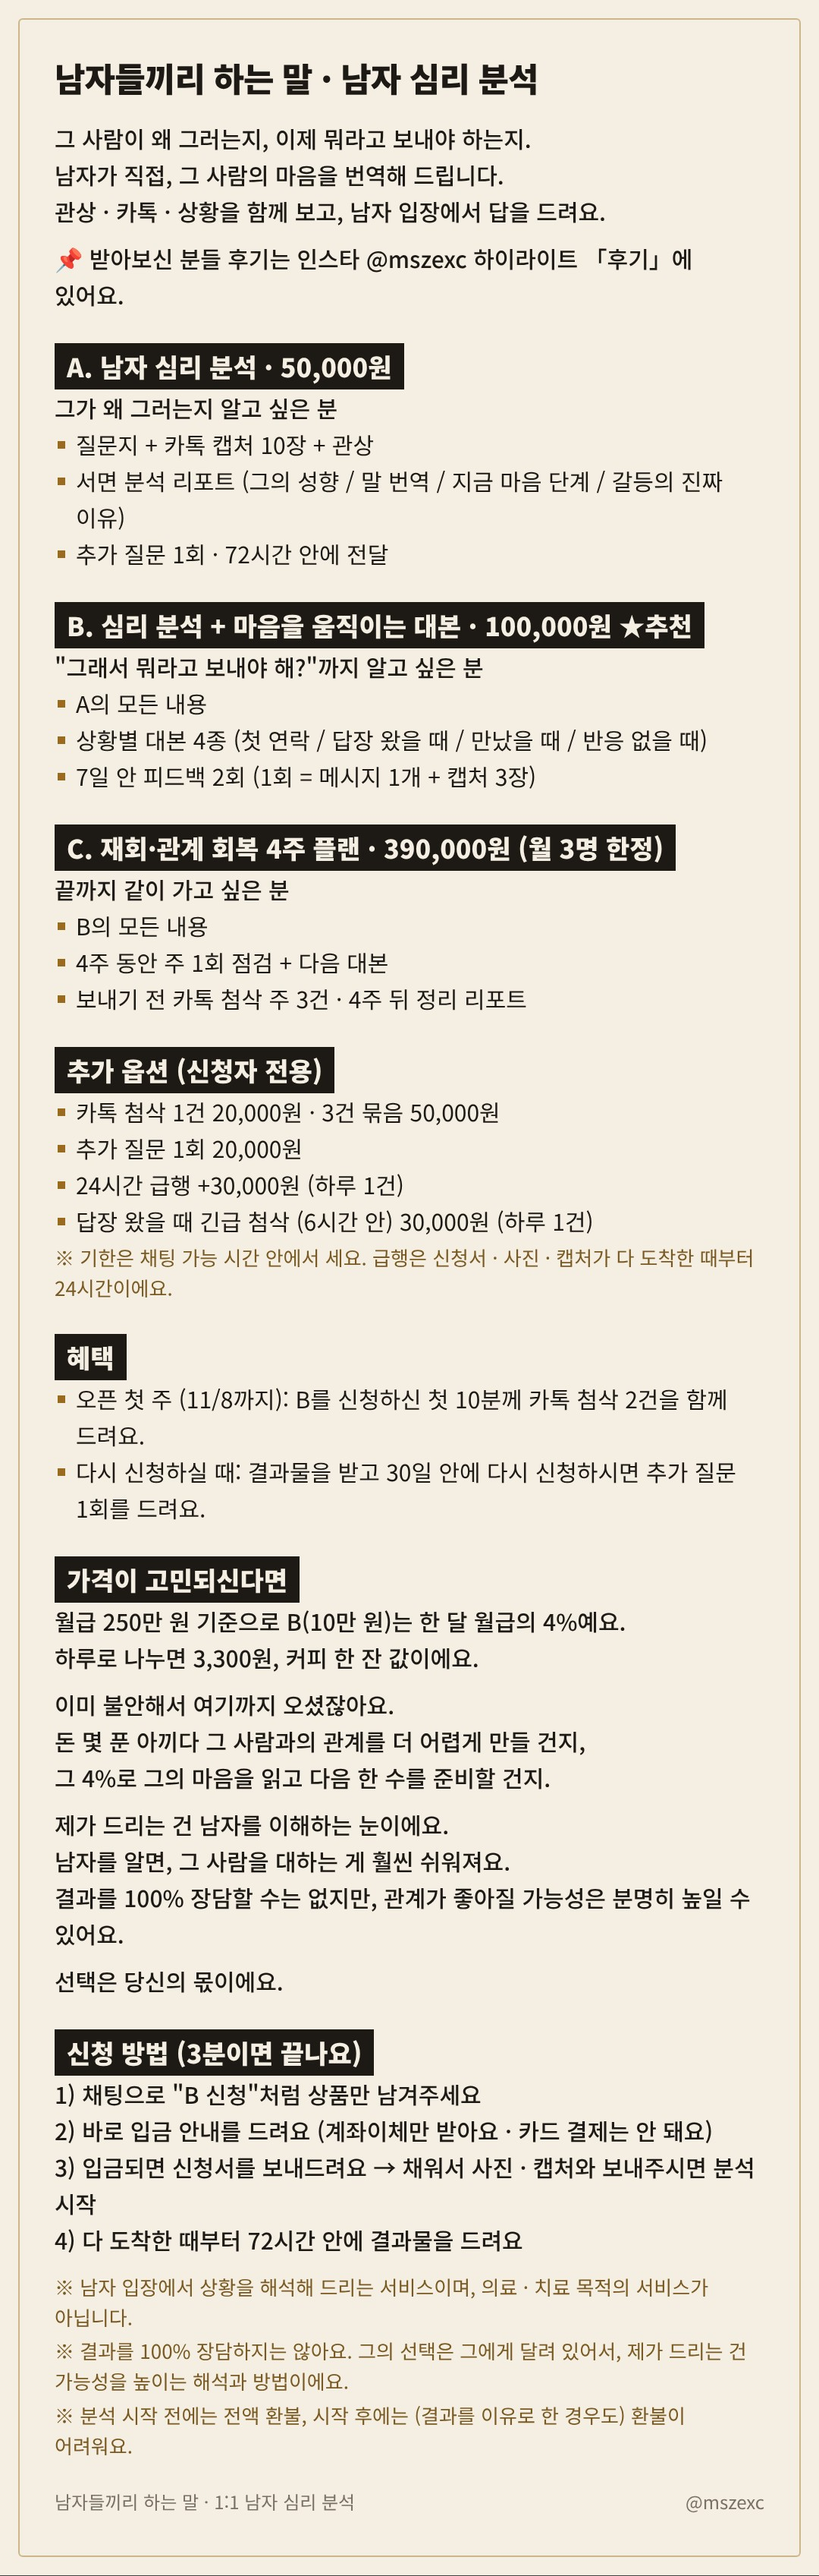
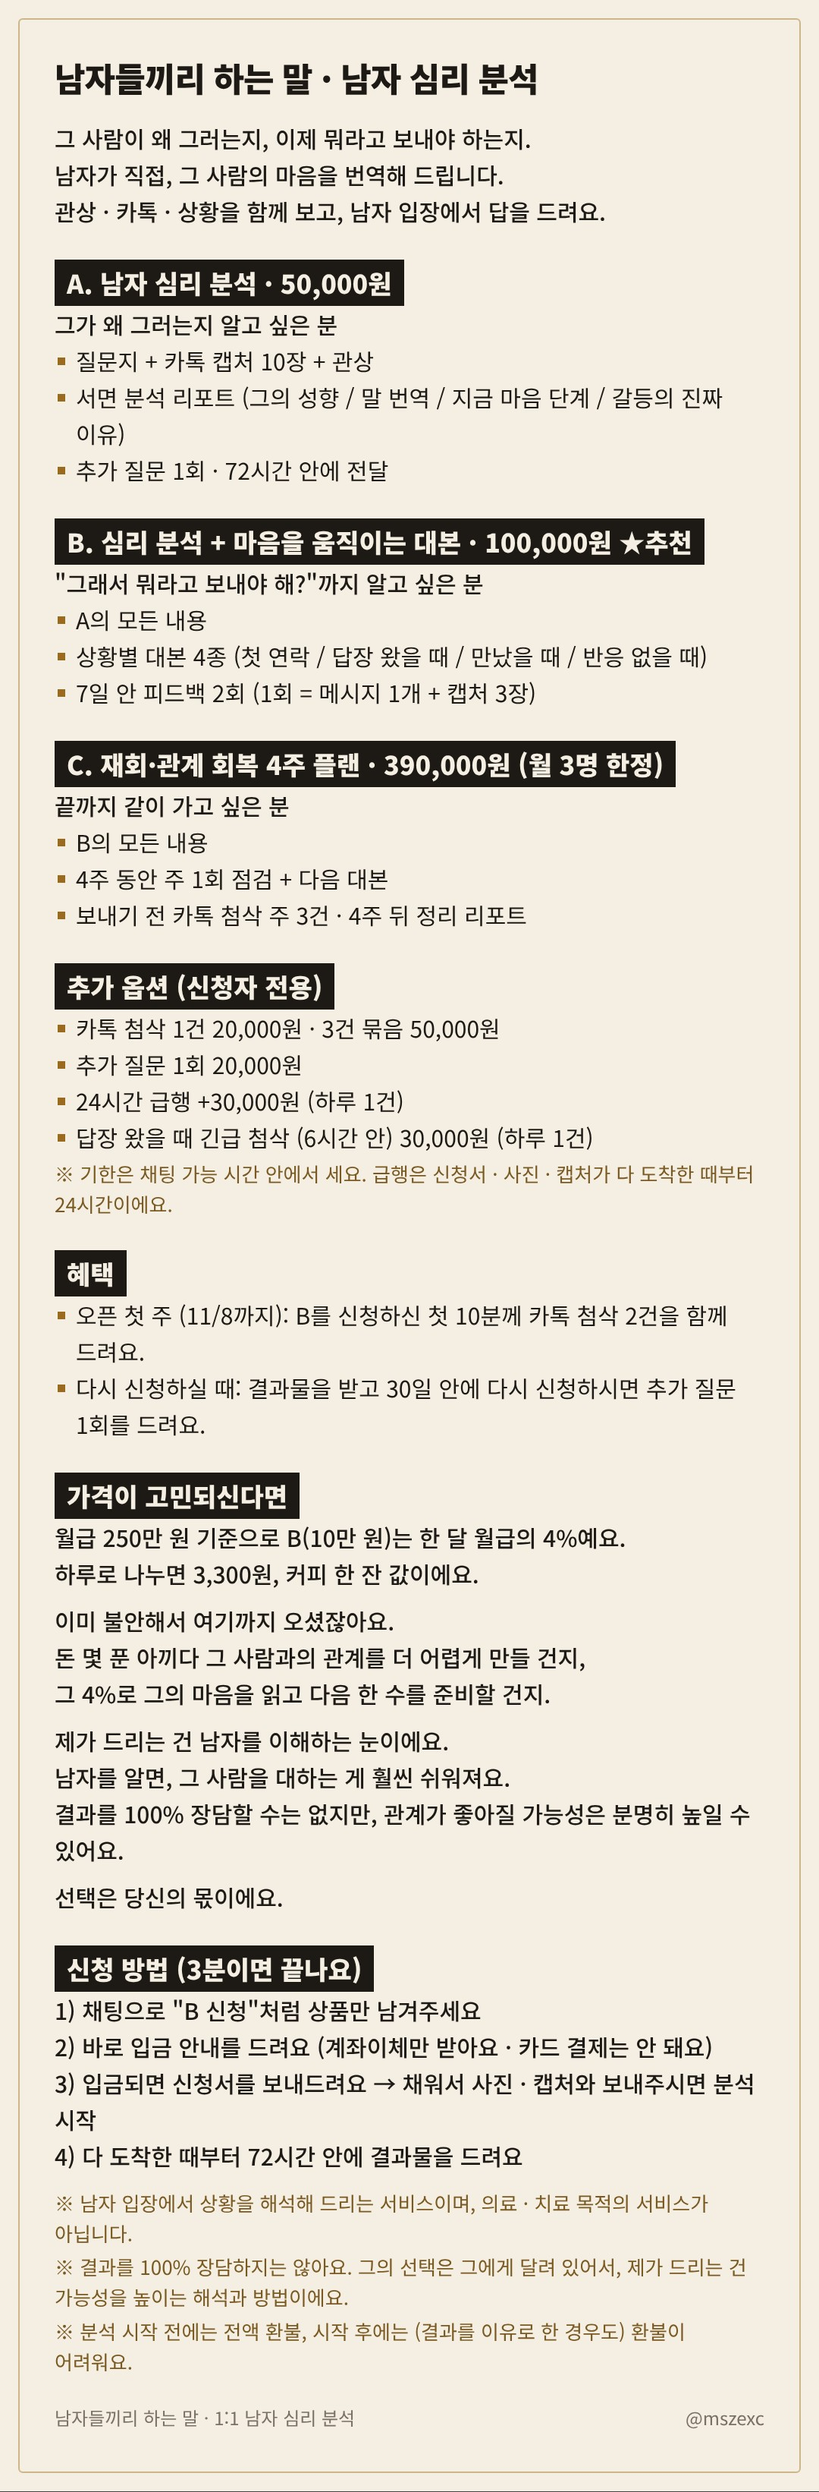
Consult guide: drop reviews highlight line
Claude-Session: https://claude.ai/code/session_01J9i5yL8MFhQ5W67Sx3nDW6

diff --git a/consult/kakao_menu/docs.html b/consult/kakao_menu/docs.html
@@ -26,7 +26,7 @@
 <section class="k" id="card_guide"><div class="top">남자가 직접, 그 사람 마음을 번역해 드려요</div><div class="ti">1:1 남자 심리 분석 안내</div><ul><li>A 5만 · B 10만 ★추천 · C 39만 (월 3명)</li><li>관상 · 카톡 · 상황을 남자 입장에서</li><li>채팅으로 &quot;A · B · C 신청&quot; → 계좌이체</li></ul><div class="ft"><span>남자들끼리 하는 말 · 1:1 남자 심리 분석</span><span>@mszexc</span></div></section>
 <section class="k" id="card_form"><div class="top">입금 확인 후 보내드려요</div><div class="ti">신청서 · 이것만 준비하세요</div><ul><li>얼굴 사진 (나 1장 · 그 1~2장 · 부담되면 생략 OK)</li><li>둘의 이야기 + 그의 카톡 · 만날 때 모습</li><li>카톡 캡처 10장 · 꼭 답받고 싶은 질문</li></ul><div class="ft"><span>남자들끼리 하는 말 · 1:1 남자 심리 분석</span><span>@mszexc</span></div></section>
 <section class="k" id="card_report"><div class="top">72시간 안에 서면으로</div><div class="ti">결과물은 이렇게 드려요</div><ul><li>A · 성향 / 말 번역 / 마음 단계 / 갈등 이유</li><li>B · A + 상황별 대본 4종 + 피드백 2회</li><li>C · B + 4주 점검 · 첨삭 주 3건 · 정리 리포트</li></ul><div class="ft"><span>남자들끼리 하는 말 · 1:1 남자 심리 분석</span><span>@mszexc</span></div></section>
-<section class="doc" id="doc_guide"><div class="ttl">남자들끼리 하는 말 · 남자 심리 분석</div><div class="sp"></div><div class="ln">그 사람이 왜 그러는지, 이제 뭐라고 보내야 하는지.</div><div class="ln">남자가 직접, 그 사람의 마음을 번역해 드립니다.</div><div class="ln">관상 · 카톡 · 상황을 함께 보고, 남자 입장에서 답을 드려요.</div><div class="sp"></div><div class="ln">📌 받아보신 분들 후기는 인스타 @mszexc 하이라이트 「후기」에 있어요.</div><div class="sp"></div><div class="sec">A. 남자 심리 분석 · 50,000원</div><div class="ln">그가 왜 그러는지 알고 싶은 분</div><div class="li">질문지 + 카톡 캡처 10장 + 관상</div><div class="li">서면 분석 리포트 (그의 성향 / 말 번역 / 지금 마음 단계 / 갈등의 진짜 이유)</div><div class="li">추가 질문 1회 · 72시간 안에 전달</div><div class="sp"></div><div class="sec">B. 심리 분석 + 마음을 움직이는 대본 · 100,000원  ★추천</div><div class="ln">&quot;그래서 뭐라고 보내야 해?&quot;까지 알고 싶은 분</div><div class="li">A의 모든 내용</div><div class="li">상황별 대본 4종 (첫 연락 / 답장 왔을 때 / 만났을 때 / 반응 없을 때)</div><div class="li">7일 안 피드백 2회 (1회 = 메시지 1개 + 캡처 3장)</div><div class="sp"></div><div class="sec">C. 재회·관계 회복 4주 플랜 · 390,000원  (월 3명 한정)</div><div class="ln">끝까지 같이 가고 싶은 분</div><div class="li">B의 모든 내용</div><div class="li">4주 동안 주 1회 점검 + 다음 대본</div><div class="li">보내기 전 카톡 첨삭 주 3건 · 4주 뒤 정리 리포트</div><div class="sp"></div><div class="sec">추가 옵션 (신청자 전용)</div><div class="li">카톡 첨삭 1건 20,000원 · 3건 묶음 50,000원</div><div class="li">추가 질문 1회 20,000원</div><div class="li">24시간 급행 +30,000원 (하루 1건)</div><div class="li">답장 왔을 때 긴급 첨삭 (6시간 안) 30,000원 (하루 1건)</div><div class="note">※ 기한은 채팅 가능 시간 안에서 세요. 급행은 신청서 · 사진 · 캡처가 다 도착한 때부터 24시간이에요.</div><div class="sp"></div><div class="sec">혜택</div><div class="li">오픈 첫 주 (11/8까지): B를 신청하신 첫 10분께 카톡 첨삭 2건을 함께 드려요.</div><div class="li">다시 신청하실 때: 결과물을 받고 30일 안에 다시 신청하시면 추가 질문 1회를 드려요.</div><div class="sp"></div><div class="sec">가격이 고민되신다면</div><div class="ln">월급 250만 원 기준으로 B(10만 원)는 한 달 월급의 4%예요.</div><div class="ln">하루로 나누면 3,300원, 커피 한 잔 값이에요.</div><div class="sp"></div><div class="ln">이미 불안해서 여기까지 오셨잖아요.</div><div class="ln">돈 몇 푼 아끼다 그 사람과의 관계를 더 어렵게 만들 건지,</div><div class="ln">그 4%로 그의 마음을 읽고 다음 한 수를 준비할 건지.</div><div class="sp"></div><div class="ln">제가 드리는 건 남자를 이해하는 눈이에요.</div><div class="ln">남자를 알면, 그 사람을 대하는 게 훨씬 쉬워져요.</div><div class="ln">결과를 100% 장담할 수는 없지만, 관계가 좋아질 가능성은 분명히 높일 수 있어요.</div><div class="sp"></div><div class="ln">선택은 당신의 몫이에요.</div><div class="sp"></div><div class="sec">신청 방법 (3분이면 끝나요)</div><div class="ln">1) 채팅으로 &quot;B 신청&quot;처럼 상품만 남겨주세요</div><div class="ln">2) 바로 입금 안내를 드려요 (계좌이체만 받아요 · 카드 결제는 안 돼요)</div><div class="ln">3) 입금되면 신청서를 보내드려요 → 채워서 사진 · 캡처와 보내주시면 분석 시작</div><div class="ln">4) 다 도착한 때부터 72시간 안에 결과물을 드려요</div><div class="sp"></div><div class="note">※ 남자 입장에서 상황을 해석해 드리는 서비스이며, 의료 · 치료 목적의 서비스가 아닙니다.</div><div class="note">※ 결과를 100% 장담하지는 않아요. 그의 선택은 그에게 달려 있어서, 제가 드리는 건 가능성을 높이는 해석과 방법이에요.</div><div class="note">※ 분석 시작 전에는 전액 환불, 시작 후에는 (결과를 이유로 한 경우도) 환불이 어려워요.</div><div class="ft2"><span>남자들끼리 하는 말 · 1:1 남자 심리 분석</span><span>@mszexc</span></div></section>
+<section class="doc" id="doc_guide"><div class="ttl">남자들끼리 하는 말 · 남자 심리 분석</div><div class="sp"></div><div class="ln">그 사람이 왜 그러는지, 이제 뭐라고 보내야 하는지.</div><div class="ln">남자가 직접, 그 사람의 마음을 번역해 드립니다.</div><div class="ln">관상 · 카톡 · 상황을 함께 보고, 남자 입장에서 답을 드려요.</div><div class="sp"></div><div class="sec">A. 남자 심리 분석 · 50,000원</div><div class="ln">그가 왜 그러는지 알고 싶은 분</div><div class="li">질문지 + 카톡 캡처 10장 + 관상</div><div class="li">서면 분석 리포트 (그의 성향 / 말 번역 / 지금 마음 단계 / 갈등의 진짜 이유)</div><div class="li">추가 질문 1회 · 72시간 안에 전달</div><div class="sp"></div><div class="sec">B. 심리 분석 + 마음을 움직이는 대본 · 100,000원  ★추천</div><div class="ln">&quot;그래서 뭐라고 보내야 해?&quot;까지 알고 싶은 분</div><div class="li">A의 모든 내용</div><div class="li">상황별 대본 4종 (첫 연락 / 답장 왔을 때 / 만났을 때 / 반응 없을 때)</div><div class="li">7일 안 피드백 2회 (1회 = 메시지 1개 + 캡처 3장)</div><div class="sp"></div><div class="sec">C. 재회·관계 회복 4주 플랜 · 390,000원  (월 3명 한정)</div><div class="ln">끝까지 같이 가고 싶은 분</div><div class="li">B의 모든 내용</div><div class="li">4주 동안 주 1회 점검 + 다음 대본</div><div class="li">보내기 전 카톡 첨삭 주 3건 · 4주 뒤 정리 리포트</div><div class="sp"></div><div class="sec">추가 옵션 (신청자 전용)</div><div class="li">카톡 첨삭 1건 20,000원 · 3건 묶음 50,000원</div><div class="li">추가 질문 1회 20,000원</div><div class="li">24시간 급행 +30,000원 (하루 1건)</div><div class="li">답장 왔을 때 긴급 첨삭 (6시간 안) 30,000원 (하루 1건)</div><div class="note">※ 기한은 채팅 가능 시간 안에서 세요. 급행은 신청서 · 사진 · 캡처가 다 도착한 때부터 24시간이에요.</div><div class="sp"></div><div class="sec">혜택</div><div class="li">오픈 첫 주 (11/8까지): B를 신청하신 첫 10분께 카톡 첨삭 2건을 함께 드려요.</div><div class="li">다시 신청하실 때: 결과물을 받고 30일 안에 다시 신청하시면 추가 질문 1회를 드려요.</div><div class="sp"></div><div class="sec">가격이 고민되신다면</div><div class="ln">월급 250만 원 기준으로 B(10만 원)는 한 달 월급의 4%예요.</div><div class="ln">하루로 나누면 3,300원, 커피 한 잔 값이에요.</div><div class="sp"></div><div class="ln">이미 불안해서 여기까지 오셨잖아요.</div><div class="ln">돈 몇 푼 아끼다 그 사람과의 관계를 더 어렵게 만들 건지,</div><div class="ln">그 4%로 그의 마음을 읽고 다음 한 수를 준비할 건지.</div><div class="sp"></div><div class="ln">제가 드리는 건 남자를 이해하는 눈이에요.</div><div class="ln">남자를 알면, 그 사람을 대하는 게 훨씬 쉬워져요.</div><div class="ln">결과를 100% 장담할 수는 없지만, 관계가 좋아질 가능성은 분명히 높일 수 있어요.</div><div class="sp"></div><div class="ln">선택은 당신의 몫이에요.</div><div class="sp"></div><div class="sec">신청 방법 (3분이면 끝나요)</div><div class="ln">1) 채팅으로 &quot;B 신청&quot;처럼 상품만 남겨주세요</div><div class="ln">2) 바로 입금 안내를 드려요 (계좌이체만 받아요 · 카드 결제는 안 돼요)</div><div class="ln">3) 입금되면 신청서를 보내드려요 → 채워서 사진 · 캡처와 보내주시면 분석 시작</div><div class="ln">4) 다 도착한 때부터 72시간 안에 결과물을 드려요</div><div class="sp"></div><div class="note">※ 남자 입장에서 상황을 해석해 드리는 서비스이며, 의료 · 치료 목적의 서비스가 아닙니다.</div><div class="note">※ 결과를 100% 장담하지는 않아요. 그의 선택은 그에게 달려 있어서, 제가 드리는 건 가능성을 높이는 해석과 방법이에요.</div><div class="note">※ 분석 시작 전에는 전액 환불, 시작 후에는 (결과를 이유로 한 경우도) 환불이 어려워요.</div><div class="ft2"><span>남자들끼리 하는 말 · 1:1 남자 심리 분석</span><span>@mszexc</span></div></section>
 <section class="doc" id="doc_form"><div class="ttl">남자들끼리 하는 말 · 남자 심리 분석 신청서</div><div class="sp"></div><div class="note">※ 남자 입장에서 상황을 해석해 드리는 서비스이며, 의료 · 치료 목적의 서비스가 아닙니다.</div><div class="note">※ 재회, 관계 회복 등 원하시는 결과를 100% 장담하지 않습니다. 상대의 마음과 선택은 상대에게 달려 있어서, 제가 드리는 건 가능성을 높이는 해석과 방법입니다.</div><div class="note">※ 이 신청서를 길게 눌러 복사 → 채팅창에 붙여넣고 빈칸만 채워서 보내주세요.</div><div class="note">※ 사진 · 캡처는 신청서를 보낸 다음, 사진으로 이어서 보내주세요.</div><div class="note">※ 다 못 채워도 괜찮아요. 아는 만큼만 적어주시면 나머지는 제가 여쭤볼게요.</div><div class="sp"></div><div class="ln">신청 상품 (A / B / C 중 하나):</div><div class="ln">입금자명 (입금 확인용):</div><div class="ln">추가 옵션 (24시간 급행 등 · 없으면 비워두세요):</div><div class="sp"></div><div class="sec">1. 기본 정보</div><div class="ln">1) 이름:</div><div class="ln">2) 나이 · MBTI: 나 ___ / 그 ___ (MBTI는 모르면 비워두세요)</div><div class="ln">3) 지금 관계: 연애 중 / 썸 / 헤어짐 / 재회 고민 / 기타</div><div class="ln">4) 만난 기간 (헤어졌다면 사귄 기간 + 헤어진 지 얼마나):</div><div class="sp"></div><div class="sec">2. 관상 (선택)</div><div class="ln">5) 본인 얼굴 사진 1장 (정면, 얼굴이 잘 보이게)</div><div class="ln">6) 상대 얼굴 사진 1~2장 (정면이면 좋아요)</div><div class="note">※ 1년 안에 찍은 사진, 필터 · 보정 없는 사진으로 보내주세요.</div><div class="note">※ 사진은 분석에만 쓰고 분석이 끝나면 바로 삭제합니다. 어디에도 공유하지 않습니다.</div><div class="note">※ 얼굴 사진이 부담스러우시면 안 보내셔도 괜찮아요. 관상 없이 이야기와 카톡으로 분석해 드려요.</div><div class="sp"></div><div class="sec">3. 둘의 이야기</div><div class="ln">7) 처음 만난 날부터 지금까지, 둘의 이야기를 편하게 적어주세요.</div><div class="sub">아래 내용이 들어가면 좋아요. 순서는 상관없고, 모르는 건 빼도 돼요.</div><div class="sub">- 어디서, 어떻게 만났는지</div><div class="sub">- 누가 먼저 다가갔고, 누가 고백했는지</div><div class="sub">- 그는 술 · 담배를 하는지, 평소 뭘 좋아하는지 (취미 · 일 · 친구)</div><div class="sub">- 주로 무엇 때문에 싸웠고, 싸우면 그는 어떻게 하는지</div><div class="sub">- (헤어졌다면) 누가, 어떤 말로 헤어지자고 했는지</div><div class="sub">- 지금 연락 상태 (잘 됨 / 뜸함 / 읽고 답 없음 / 차단 / 내가 끊음)</div><div class="sub">→</div><div class="sp"></div><div class="ln">8) 그는 만났을 때와 카톡 · DM 할 때 어떻게 달라요?</div><div class="sub">(말투, 표현, 누가 먼저 연락하는지, 답장이 얼마 만에 오는지 · 예전과 지금이 다르면 같이 적어주세요)</div><div class="sub">→</div><div class="sp"></div><div class="sec">4. 지금 고민</div><div class="ln">9) 지금 제일 고민되는 걸 자세하게 적어주세요.</div><div class="sub">(무엇이 걱정되는지, 왜 그런 생각이 드는지 · 길어도 괜찮아요)</div><div class="sub">→</div><div class="ln">10) 해석받고 싶은 그의 말이나 행동을 자유롭게 적어주세요.</div><div class="sub">(그가 한 말은 들은 그대로 적어주시면 더 정확해요)</div><div class="sub">→</div><div class="ln">11) 지금까지 내가 해본 것 (보낸 말 · 행동)과 그의 반응:</div><div class="note">※ 이미 해본 걸 다시 권하지 않으려고 여쭤봐요. 해본 게 없다면 비워두셔도 돼요.</div><div class="ln">12) 카톡 캡처 (최대 10장) ※ 가장 최근 대화 + 분위기가 바뀐 시점의 대화를 섞어서 보내주세요.</div><div class="sp"></div><div class="sec">5. 내가 원하는 것</div><div class="ln">13) 아래 중 하나를 적어주세요: 재회 / 관계 회복 / 그의 속마음만 알고 싶음 / 깔끔하게 정리 / 아직 모르겠음</div><div class="sub">→</div><div class="ln">14) 꼭 답받고 싶은 질문 (1~3개):</div><div class="sub">- 언제까지 답이 필요한가요? (예: 이번 주말에 만나기로 함 · 급하지 않음)</div><div class="sp"></div><div class="sec">6. 확인 및 개인정보 동의 (각 줄 끝에 &quot;동의&quot;라고 적어주세요)</div><div class="ln">15) (필수) 재회·관계 회복 등 원하는 결과를 100% 장담하지 않으며, 결과를 이유로 한 환불은 어렵다는 점을 확인했습니다. →</div><div class="ln">16) (필수) 이름, 나이, 사진, 대화 내용을 분석 목적으로만 수집·이용하는 데 동의합니다. 사진은 분석이 끝나면 바로, 나머지 정보는 30일 후 삭제합니다. →</div><div class="ln">17) (선택) 후기를 남겨주시면 이름과 세부 내용을 바꿔서 소개해도 됩니다. (동의 / 비동의) →</div><div class="ft2"><span>남자들끼리 하는 말 · 1:1 남자 심리 분석</span><span>@mszexc</span></div></section>
 <section class="doc" id="doc_report"><div class="ttl">결과물은 이렇게 드려요</div><div class="sp"></div><div class="sec">A · 남자 심리 분석 리포트</div><div class="ln">1. 관상으로 본 그의 연애 성향</div><div class="ln">2. 그의 말 · 행동 번역 (신청서 10번)</div><div class="ln">3. 지금 그의 마음 단계 (지친 중 / 흔들리는 중 / 정리하는 중)</div><div class="ln">4. 갈등이 반복되는 진짜 이유</div><div class="ln">5. 꼭 답받고 싶은 질문에 대한 답</div><div class="sp"></div><div class="sec">B · A + 마음을 움직이는 대본 4종</div><div class="ln">1. 첫 연락: 첫 문장, 보낼 시간대</div><div class="ln">2. 답장이 왔을 때: 반응별로 이어갈 말</div><div class="ln">3. 만났을 때·통화할 때: 꺼낼 말, 피할 말</div><div class="ln">4. 반응이 없거나 거절당했을 때: 멈출 타이밍과 마지막 한 줄</div><div class="ln">→ 7일 안에 반응을 보내주면 다음 한 수 (2회)</div><div class="sp"></div><div class="ln">대본은 이런 식이에요 (예시)</div><div class="ln">✕ &quot;우리 얘기 좀 해. 언제까지 이럴 건데?&quot;</div><div class="ln">○ &quot;그날 내가 좀 날카로웠던 것 같아. 생각나서 연락했어. 편할 때 답해줘.&quot;</div><div class="ln">→ 왜 이 말이 통하는지, 언제 보내야 하는지까지 같이 드려요.</div><div class="sp"></div><div class="sec">C · 4주 플랜</div><div class="ln">1주차: B 전체 + 연락 타이밍 설계</div><div class="ln">2~4주차: 주 1회 점검 → 다음 대본 / 카톡 첨삭 주 3건</div><div class="ln">4주 뒤: 정리 리포트 (무엇이 바뀌었고, 다음은 무엇인지)</div><div class="ft2"><span>남자들끼리 하는 말 · 1:1 남자 심리 분석</span><span>@mszexc</span></div></section>
 </body></html>

diff --git a/consult/menu.py b/consult/menu.py
@@ -32,8 +32,6 @@ GUIDE = '''[남자들끼리 하는 말 · 남자 심리 분석]
 남자가 직접, 그 사람의 마음을 번역해 드립니다.
 관상 · 카톡 · 상황을 함께 보고, 남자 입장에서 답을 드려요.
 
-📌 받아보신 분들 후기는 인스타 @mszexc 하이라이트 「후기」에 있어요.
-
 ■ A. 남자 심리 분석 · 50,000원
 그가 왜 그러는지 알고 싶은 분
 - 질문지 + 카톡 캡처 10장 + 관상

diff --git a/consult/menu.md b/consult/menu.md
@@ -50,8 +50,6 @@
 남자가 직접, 그 사람의 마음을 번역해 드립니다.
 관상 · 카톡 · 상황을 함께 보고, 남자 입장에서 답을 드려요.
 
-📌 받아보신 분들 후기는 인스타 @mszexc 하이라이트 「후기」에 있어요.
-
 ■ A. 남자 심리 분석 · 50,000원
 그가 왜 그러는지 알고 싶은 분
 - 질문지 + 카톡 캡처 10장 + 관상
